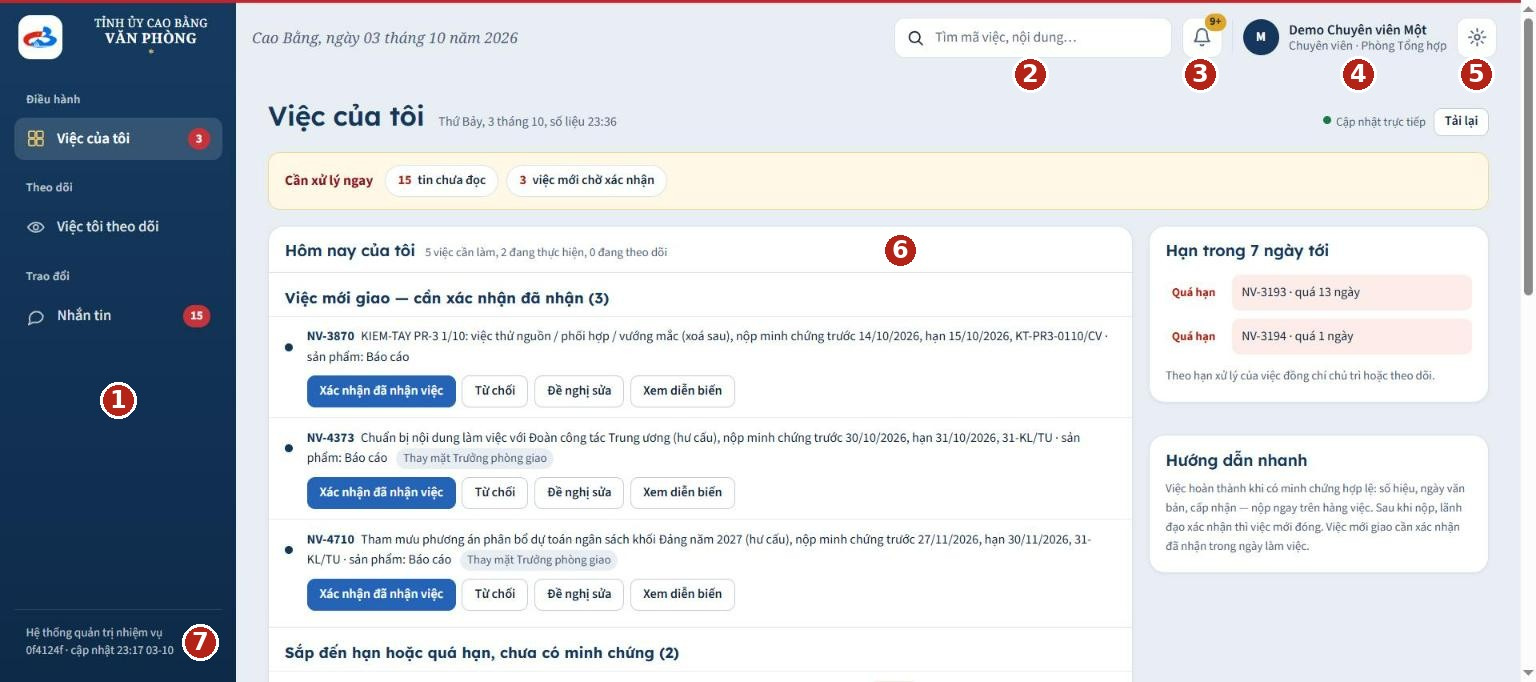
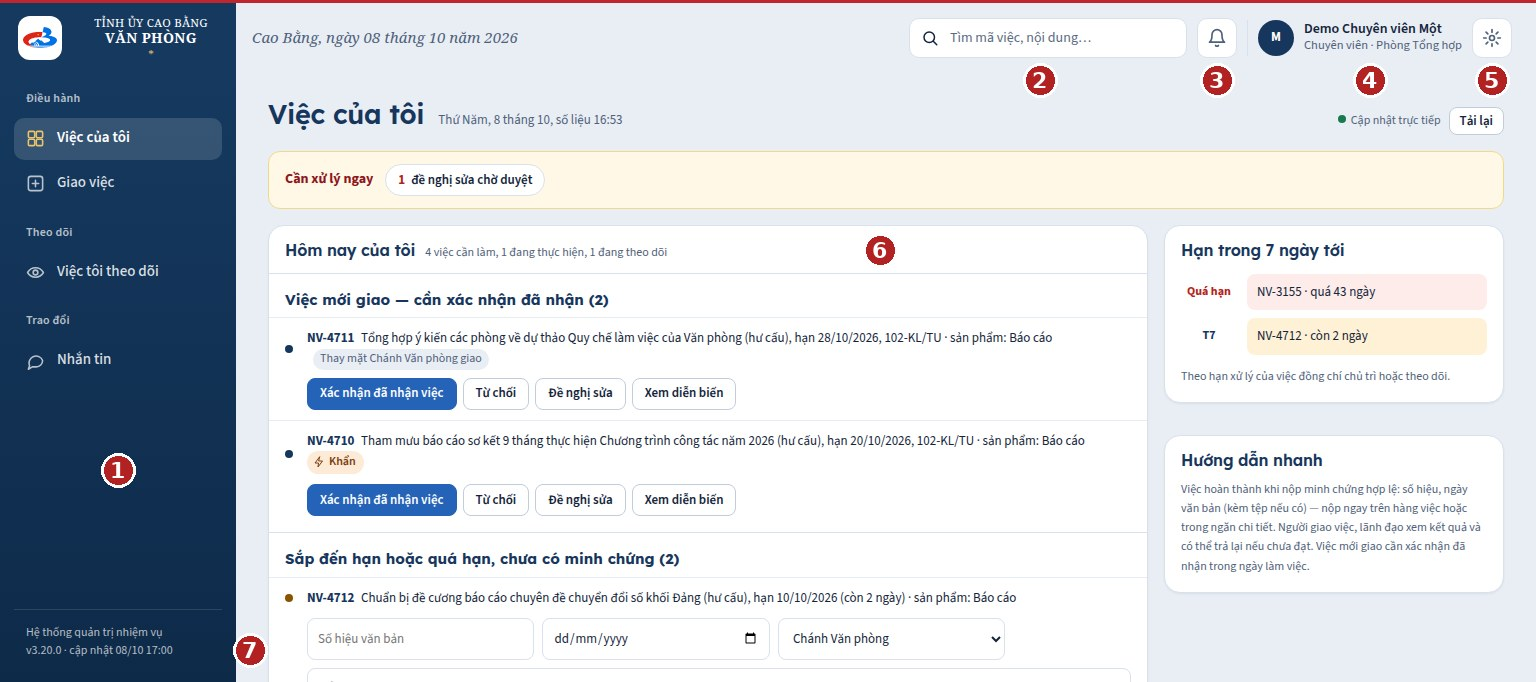
docs: phát hành v3.20.0 — HDSD 3.20 (59 trang, 29 ảnh chụp lại / mới), danh sách go-live, CHANGELOG 63, TRANG-THAI
- Hướng dẫn sử dụng 3.20: lãnh đạo theo dõi — chuyên viên nhập liệu; nộp minh chứng (kèm tệp, PDF điền sẵn) là hoàn thành;
  Kết quả nộp trong 7 ngày (trả lại / đánh giá không bắt buộc); đề nghị về người nhập việc; Chuyển việc theo dõi; cấu hình tệp.
- Ảnh từ bộ dựng thử với dữ liệu hư cấu (tên "Demo …"); bỏ 5 ảnh không còn dùng.
- docs/GO-LIVE-V3.20.md: kiểm tay staging, SELECT xem trước dữ liệu 0090, phát hành tag, cấu hình, tài khoản, dữ liệu thật.

Claude-Session: https://claude.ai/code/session_016CpGzbs1aZfDs6AuZ5GTv4

diff --git a/docs/GO-LIVE-V3.20.md b/docs/GO-LIVE-V3.20.md
@@ -1,0 +1,69 @@
+# Danh sách việc đưa v3.20.0 vào dùng chính thức (go-live)
+
+Bản phát hành gộp **v3.20.0** = Đợt B + E (PR #120, migration 0079–0085), Đợt C1 (PR #121, 0086), Đợt C2 (PR #122, 0087–0088), Đợt D (PR #123, 0089–0094) + PR phát hành `release/v3.20.0` (HDSD 3.20). Production hiện chạy `v3.17.0` (0001–0078); staging đã áp 0001–0094.
+
+Mỗi bước dưới đây do **chủ dự án** làm (hoặc làm cùng Claude trong phiên). Claude không tự thao tác trên production, không dùng mật khẩu / khoá service. Làm **lần lượt**, xong bước này mới sang bước sau.
+
+## Bước 1 — Kiểm tay trên staging (`https://haidang21ktvptu.github.io/vptu-mvp-task/staging/`)
+Tài khoản demo (mật khẩu demo của staging). Mỗi dòng là một việc cần thấy đúng:
+1. `demo_cv1` (chuyên viên): **Giao việc** → chọn văn bản, thêm 2 thẻ (một giao `demo_cv2`, một "Chính tôi") → Giao 2 việc. Việc tự giao hiện ở Việc của tôi; việc giao `demo_cv2` ở Việc tôi theo dõi.
+2. `demo_cv2`: thấy việc mới → **Xác nhận đã nhận việc** → mở việc (gõ mã vào ô tìm nhanh), **Nộp minh chứng** kèm một tệp PDF có chữ (tệp thử, không phải văn bản thật) → hệ thống điền sẵn số hiệu / ngày / trích yếu → nộp → việc **Hoàn thành** ngay.
+3. `demo_cv1`: mở việc vừa hoàn thành → thấy tệp (bấm tên tệp mở được) → **Trả lại** có lý do → việc mở lại; `demo_cv2` thấy "Bị trả lại: …", nộp lại → hoàn thành.
+4. `demo_truongphong`: không có mục "Cần nghiệm thu"; Cần xử lý có khối **Kết quả nộp trong 7 ngày** (Đánh giá / Trả lại, không bắt buộc); việc giao cho Trưởng phòng hiện "đã nhận việc" mà không phải bấm.
+5. `demo_cv2`: trên một việc `demo_cv1` giao, bấm **Từ chối** có lý do → `demo_cv1` thấy khối "Đề nghị từ chối nhận việc, cần đồng chí duyệt" → Không đồng ý.
+6. `demo_cv1`: trên việc mình giao, khối **Chỉ đạo** → Đôn đốc / Gia hạn được (việc không phải từ KL BTV / TB Thường trực).
+7. `demo_qtht`: Quản trị → Tài khoản và cờ → **Chuyển việc theo dõi** của một tài khoản demo → chọn người nhận, xem số việc sẽ chuyển → Huỷ (không cần chuyển thật).
+8. `demo_cvp`: Tổng quan có thanh lọc, KPI theo cán bộ; Quản trị → Ngưỡng cảnh báo có khoá `minh_chung_bat_buoc_tep` = 1.
+9. Điện thoại: đăng nhập `demo_cv1`, nộp minh chứng kèm ảnh chụp (tệp ảnh thử).
+
+Gặp lỗi: chụp màn hình kèm dòng phiên bản ở chân menu, gửi Claude — sửa, CI xanh rồi mới sang Bước 2.
+
+## Bước 2 — Xem trước dữ liệu production sẽ đổi (chỉ đọc)
+Migration **thay đổi dữ liệu** khi áp:
+- **0087**: đánh số thứ tự nhiệm vụ trong từng văn bản (`stt_van_ban`) cho việc đã có.
+- **0089**: tạo kho tệp riêng tư `minh-chung`, khoá cấu hình `minh_chung_bat_buoc_tep = 1`, thêm 5 loại sản phẩm.
+- **0090** (không hoàn tác được): minh chứng **đang chờ nghiệm thu** (số hiệu / tệp) được coi là **hợp lệ**; việc đang mở có minh chứng vừa chuyển → **Hoàn thành** theo ngày văn bản minh chứng (dòng lệch ngày chỉ báo NOTICE, giữ nguyên); lãnh đạo (A1/A2) là chủ trì / theo dõi việc theo quy tắc 1400 đang mở được ghi "đã nhận" tự động.
+- 0079–0086, 0088, 0091–0094: chỉ đổi hàm, quyền, view, cột mới — không đổi dữ liệu cũ.
+
+Trước khi xác nhận, chủ dự án chạy trong **SQL Editor của project production** (chỉ SELECT) để biết số dòng bị ảnh hưởng:
+```sql
+SELECT count(*) AS minh_chung_cho_se_hop_le
+FROM minh_chung WHERE hop_le IS NULL AND loai IN ('so_hieu', 'tep');
+
+SELECT count(DISTINCT m.nhiem_vu_id) AS viec_se_hoan_thanh
+FROM minh_chung m JOIN nhiem_vu n ON n.id = m.nhiem_vu_id
+WHERE m.hop_le IS NULL AND m.loai = 'so_hieu' AND m.ngay_van_ban IS NOT NULL
+  AND n.tien_do_ma <> 'HOAN_THANH' AND n.dong_luc IS NULL;
+```
+
+## Bước 3 — Phát hành production (quy tắc 12 + `docs/kien-truc.md` mục 7)
+1. Chủ dự án gửi trong phiên một câu xác nhận: **"Đồng ý áp migration 0079–0094 lên production"**.
+2. PR phát hành `release/v3.20.0` đã CI xanh đủ check. Chủ dự án gắn tag lên **đầu nhánh phát hành** (không đứng ở `main`):
+   ```
+   git fetch origin && git checkout release/v3.20.0 && git pull
+   git tag v3.20.0 && git push origin v3.20.0
+   ```
+3. GitHub → Actions → run "Deploy production" của tag → **Review deployments** → duyệt. Theo dõi Summary: "Kiểm tra tag" → "Backup + migration production + build" (backup trước, rồi `db push`) → "Deploy Pages" → smoke (đăng nhập thử, đạt thì gắn tag `production`) đều xanh.
+4. Kiểm `https://haidang21ktvptu.github.io/vptu-mvp-task/phien-ban.json` ghi `v3.20.0`. Báo Claude để **merge PR phát hành bằng merge commit**.
+5. Sau phát hành, không đẩy thêm commit lên `release/v3.20.0`.
+
+## Bước 4 — Cấu hình production (chủ dự án quyết, đăng nhập tài khoản Chánh Văn phòng / quản trị hệ thống → Quản trị → Ngưỡng cảnh báo; mỗi lần sửa ghi lý do)
+| Khoá | Mặc định | Gợi ý khi go-live |
+|---|---|---|
+| `xac_nhan_nhan_viec` | 1 (chuyên viên tự bấm Đã nhận) | Giữ 1 nếu muốn biết chuyên viên đã nhận; 2 nếu áp luồng chuyên viên giao thẳng, coi như đã nhận khi giao |
+| `pham_vi_chuyen_vien` | 1 (chỉ việc của mình) | 2 nếu muốn chuyên viên xem cả phòng (chỉ xem) — theo dõi tải hệ thống vài ngày sau khi bật |
+| `minh_chung_bat_buoc_tep` | 1 (tệp không bắt buộc) | 2 khi Văn phòng yêu cầu mọi minh chứng phải kèm tệp |
+
+## Bước 5 — Tài khoản và dữ liệu thật (trên production, không qua kho mã, không đưa lên staging)
+1. Quản trị hệ thống rà danh sách tài khoản (họ tên, phòng, vai, chức danh); khoá tài khoản không dùng; **Chuyển việc theo dõi** trước khi khoá người còn việc.
+2. Kiểm cờ: quản trị nhiệm vụ (tối đa 2 người), thư ký Thường trực, quản trị hệ thống.
+3. Phân công Phó Chánh Văn phòng phụ trách phòng / kiêm nhiệm lĩnh vực; lịch nghỉ lễ năm 2026–2027 ở thẻ Ngày nghỉ.
+4. **Bàn giao tài khoản** (Quản trị → Tài khoản → Bàn giao tài khoản…): xuất phiếu / tệp mật khẩu tạm, phát qua kênh riêng, **xoá tệp sau khi phát**. Tệp này không gửi qua chat, không lưu vào kho mã.
+5. Cán bộ tổng hợp nhập các bảng theo dõi hiện có bằng **Nhập từ Excel** (mẫu 28 cột hoặc bảng Phụ lục 2) — làm trên production; hoàn tác được trong 24 giờ.
+
+## Bước 6 — Hướng dẫn sử dụng
+Bản **HDSD v3.20** (59 trang, PDF + DOCX) dựng từ `docs/huong-dan-su-dung/` (không commit tệp dựng). Chép bản phát hành vào `D:\TU 2026\kiem-thu\huong-dan-su-dung\` và gửi cán bộ; mỗi người đọc Phần 2 và phần của vai mình. Ảnh trong tài liệu chụp từ bộ dựng thử với dữ liệu hư cấu (tên "Demo …").
+
+## Khi có sự cố
+- Deploy đỏ ở bước kiểm tra / migration: không merge PR; báo Claude. Bản backup tự động của run nằm trong Summary.
+- Sự cố sau phát hành: `docs/xu-ly-su-co.md`; sửa trên nhánh `fix/...`, phát hành tag số mới (`v3.20.1`), không xoá / đổi tag đã đẩy.

diff --git a/docs/TRANG-THAI.md b/docs/TRANG-THAI.md
@@ -1,4 +1,4 @@
-# TRẠNG THÁI DỰ ÁN — bản bàn giao (cập nhật: 2026-10-08, production đang chạy **`v3.17.0`** (migration 0001–0078); **đã merge chờ phát hành gộp `v3.20.0`: Đợt B + E (PR #120, 0079–0085), Đợt C1 (PR #121, 0086), Đợt C2 (PR #122, 0087–0088); staging đã áp 0001–0088. Đợt D đang làm (nhánh `feature/dot-d-lanh-dao-theo-doi`, migration 0089–0094)**; trước đó `v3.17.0` (Đợt A: bỏ hạn nộp minh chứng, giao nhiều nhiệm vụ bằng thẻ, giao cho chính mình, tìm nhanh; migration 0077–0078, tag trên đầu nhánh `release/v3.17.0`). Đặc tả UI/UX hiện hành: `docs/DESIGN.md` mục 10 + `docs/ui-ux/mockup-v9.html`.)
+# TRẠNG THÁI DỰ ÁN — bản bàn giao (cập nhật: 2026-10-08, production đang chạy **`v3.17.0`** (migration 0001–0078); **đã merge chờ phát hành gộp `v3.20.0`: Đợt B + E (PR #120, 0079–0085), Đợt C1 (PR #121, 0086), Đợt C2 (PR #122, 0087–0088), Đợt D (PR #123, 0089–0094); staging đã áp 0001–0094. PR phát hành `release/v3.20.0` (HDSD 3.20, `docs/GO-LIVE-V3.20.md`) chờ chủ dự án kiểm tay staging → xác nhận áp 0079–0094 → đẩy tag**; trước đó `v3.17.0` (Đợt A: bỏ hạn nộp minh chứng, giao nhiều nhiệm vụ bằng thẻ, giao cho chính mình, tìm nhanh; migration 0077–0078, tag trên đầu nhánh `release/v3.17.0`). Đặc tả UI/UX hiện hành: `docs/DESIGN.md` mục 10 + `docs/ui-ux/mockup-v9.html`.)
 
 Đọc trước: `CLAUDE.md` (quy tắc), **`docs/MUC-TIEU-1400.md` (thước đo mọi giai đoạn)**, `docs/SPEC.md` (v3, nghiệp vụ), `docs/RA-SOAT-HIEN-TRANG.md` (giữ/sửa/hợp nhất/bỏ), `docs/CAU-HOI-NGHIEP-VU.md` (15 câu chờ chủ dự án), `docs/LO-TRINH-V3.md` (GĐ14–24, migration từ 0022), `docs/DESIGN.md` (hệ thống thiết kế; **mục 10 = giao diện v9, đặc tả hiện hành**) + **`docs/ui-ux/mockup-v9.html`** (bản mẫu v9; `mockup-v8/` và `mockup-v7.html` là lịch sử — v9 thắng khi khác), `docs/kien-truc.md` (pipeline, secret, quay lui), `docs/PROMPTS.md` (prompt theo giai đoạn). Tra cứu: `docs/SPEC-v2-luu.md` (mã yêu cầu cũ), `docs/thiet-ke-theo-doi-kl-btvtu.md` (thiết kế GĐ8–10, đóng băng). Lịch sử: `CHANGELOG.md` mục 7–20.
 
@@ -105,6 +105,8 @@ git tag v2.x.y && git push origin v2.x.y                        # → deploy-pro
 -10. **Đợt A tối ưu 7/10 — v3.17.0** (7/10/2026, PR #115 0077 + #116 0078 + #117 + release/v3.17.0, CHANGELOG 53–56; kế hoạch 4 đợt theo 9 yêu cầu 7/10 ghi ở CHANGELOG 53): bỏ hạn nộp minh chứng; biểu mẫu Giao việc có chế độ "Nhiều nhiệm vụ từ văn bản này" (thẻ Nhiệm vụ 1…20, mỗi thẻ đủ ô, ngành / lĩnh vực riêng — `giao_viec_nhieu`), lãnh đạo giao cho chính mình, ô tìm nhanh người (danh sách mở khi gõ), nhãn "Ngày giao nhiệm vụ"; CI: PR có migration tự `db push` lên staging trước e2e; `scripts/rls-chu-thich.sh` đưa test RLS đỏ + 25 dòng cuối log thành annotation. HDSD v3.17 dựng lại (52 trang). **Khi áp production**: 0077 xoá dữ liệu hạn nộp hiện có — cần chủ dự án xác nhận trong phiên. Còn lại của kế hoạch: Đợt B v3.18 (Owner luôn là phòng / cán bộ VPTU — bỏ đơn vị ngoài; thay mặt theo nhóm Lãnh đạo Văn phòng / Thường trực), Đợt C v3.19 (giao tiếp xuống điền sẵn + chuỗi; "Giao thêm nhiệm vụ từ văn bản này"), Đợt D v3.20 (minh chứng kèm tệp ≤ 10 MB bucket riêng; mở rộng danh mục ngành / loại văn bản / sản phẩm — bảng đề xuất trước). Lưu ý vận hành: e2e staging đỏ chập chờn khi chạy liền nhau (3 lần 3 spec khác nhau trong #117) — chạy lại khi staging rảnh ≥ 45 phút; `rerun-failed-jobs` qua API có lúc trả 500 → đẩy commit rỗng. Dữ liệu thử trên staging: NV-6176, NV-6177 (văn bản KT-3171-GV).
 
 -11. **CI e2e cục bộ + Đợt B v3.18** (7–8/10/2026, PR #119 CI, PR Đợt B nhánh `feature/dot-b-thay-mat-nhom`, CHANGELOG 57–58): PR chạy e2e trên Supabase cục bộ của runner (≈ 7 phút, không phụ thuộc staging), staging chỉ smoke sau merge + bộ đủ 03:00 (`kiem-thu-dem.yml`). Đợt B (migration **0079–0084**): Owner luôn là phòng / cán bộ Văn phòng (đơn vị ngoài bị chặn mọi vai, Excel → chờ hoàn thiện); thay mặt theo nhóm "Lãnh đạo Văn phòng" / "Thường trực Tỉnh ủy" (`giao_thay_mat_nhom` + người đại diện ở `giao_thay_mat_cho`; nhóm Lãnh đạo VP = Chánh VP + PCVP trong phạm vi việc được báo / duyệt — 0083; thay mặt Thường trực = Thường trực giao, cả ở nghiệm thu); Chánh VP / quản trị KL chọn được lãnh đạo VP làm Owner. **Khi áp production**: 0079–0084 không đổi dữ liệu cũ; cần chủ dự án xác nhận trong phiên (quy tắc 12). HDSD: nội dung 5.3, 7.1, 7.7 đã sửa, **chưa dựng lại PDF / DOCX và chưa đổi PHIEN_BAN 3.18** (làm ở PR phát hành). Khối 3 "Sản phẩm và hạn": chủ dự án chọn gộp một bố cục (8/10) — đã làm trong cùng PR: biểu mẫu hai khối, thẻ 1 = ô chính, "+ Thêm nhiệm vụ", "Thông tin thêm" thu gọn; ảnh chụp HDSD gv-02 / gv-04 / a0-03b / a1-03 / a2-03 cần chụp lại khi dựng PDF v3.18.
+
+-16. **Phát hành v3.20.0** (8/10/2026, nhánh `release/v3.20.0`, CHANGELOG 63): Đợt D merge (PR #123, CI xanh; sửa sau CI lần 1: chặn NULL trong hàm quyền, 0094 "đã nhận" của lãnh đạo chỉ theo dõi không thay chuyên viên nhận), staging deploy xanh. HDSD 3.20 dựng lại (59 trang; ảnh chụp bằng bộ dựng thử dữ liệu hư cấu, tên "Demo …"; tệp .docx / .pdf không commit — chép vào `D:\TU 2026\kiem-thu\huong-dan-su-dung\`). Các bước còn lại theo `docs/GO-LIVE-V3.20.md`, mỗi lần một bước: (1) chủ dự án kiểm tay staging 9 mục; (2) chạy hai câu SELECT xem trước trên production; (3) câu xác nhận áp 0079–0094 + đẩy tag `v3.20.0` trên đầu nhánh phát hành + duyệt deploy; (4) Claude merge PR phát hành; (5) cấu hình, tài khoản, dữ liệu thật trên production. Ảnh HDSD còn chụp từ staging cũ (menu chưa đổi, không ảnh hưởng nội dung): nx-*, qt-01/04/06/08/09, a3-06/07/09/10, a0-*, a2-05/06/07/09/10/11, chung-01..08.
 
 -15. **Đợt D v3.20 — lãnh đạo theo dõi, chuyên viên nhập liệu** (8/10/2026, nhánh `feature/dot-d-lanh-dao-theo-doi`, migration **0089–0094**, CHANGELOG 62, SPEC MC-10 / GV-18 / QT-8 / NF-12): định hướng chủ dự án — lãnh đạo (Thường trực, lãnh đạo Văn phòng, lãnh đạo phòng) dùng phần mềm để theo dõi và chỉ đạo, không bước nào bắt lãnh đạo bấm; chuyên viên nhập liệu; V-Office theo dõi đầu văn bản, web app theo dõi nhiệm vụ trong văn bản. Bốn quyết định (AskUserQuestion, đều theo khuyến nghị): nộp minh chứng hợp lệ là hoàn thành (trả lại / đánh giá tuỳ chọn); lãnh đạo không bấm nhận việc; đề nghị từ chối / sửa về người nhập việc, lãnh đạo được báo, xử lý thay được, không bị nhắc; Owner là lãnh đạo thì chuyên viên (người tạo / theo dõi) nộp thay. Thêm tệp minh chứng (kho riêng tư, cấu hình bắt buộc tệp), chuyển việc theo dõi (J-6), nhập Excel 3 ô nguồn. Kế tiếp: rà soát mã → PR → CI → merge → PR phát hành gộp `v3.20.0` (HDSD 3.20, ảnh, PDF/DOCX, danh sách go-live) → chủ dự án kiểm tay staging → xác nhận áp 0079–0094 lên production + đẩy tag + duyệt deploy.
 

diff --git a/docs/huong-dan-su-dung/README.md b/docs/huong-dan-su-dung/README.md
@@ -8,7 +8,7 @@ Thư mục này chứa **nguồn** của tài liệu *Hướng dẫn sử dụng
 - `build.mjs` — dựng `HDSD-VPTU-TASK.docx`; `--trang trang.json` điền số trang vào mục lục.
 - `trang.py` — đọc PDF (pdftotext) → số trang từng tiêu đề → `trang.json`.
 - `cat.py` — bảng vùng cắt của ảnh chụp (tệp `-cat.jpg`), để chữ trong hình to hơn.
-- `anh/` — 76 ảnh đang dùng, chụp trên **staging** bằng tài khoản demo (`demo_cv1`, `demo_truongphong`, `demo_cvp`, `demo_a0`, `demo_qtht`), 1536 px; dữ liệu trong ảnh là hư cấu (`phu-luc-2-hu-cau.xlsx`, `bang-theo-doi-tu-do-hu-cau.xlsx`, việc NV-4710…). Không chụp production, không ảnh có tên thật.
+- `anh/` — 76 ảnh đang dùng, chụp trên **staging** bằng tài khoản demo (`demo_cv1`, `demo_truongphong`, `demo_cvp`, `demo_a0`, `demo_qtht`), 1536 px; dữ liệu trong ảnh là hư cấu (`phu-luc-2-hu-cau.xlsx`, `bang-theo-doi-tu-do-hu-cau.xlsx`, việc NV-4710…). Không chụp production, không ảnh có tên thật. Từ v3.20, 29 ảnh (màn hình chuyên viên, Trưởng phòng, Lãnh đạo Văn phòng, giao việc, quản trị) chụp bằng bộ dựng thử: frontend thật chạy với dữ liệu hư cấu, tài khoản tên "Demo …", tệp PDF mẫu tự tạo.
 
 ## Dựng lại
 Cần Node ≥ 22, LibreOffice (`soffice`) và poppler (`pdftotext`, `pdfinfo`) để tính số trang.
